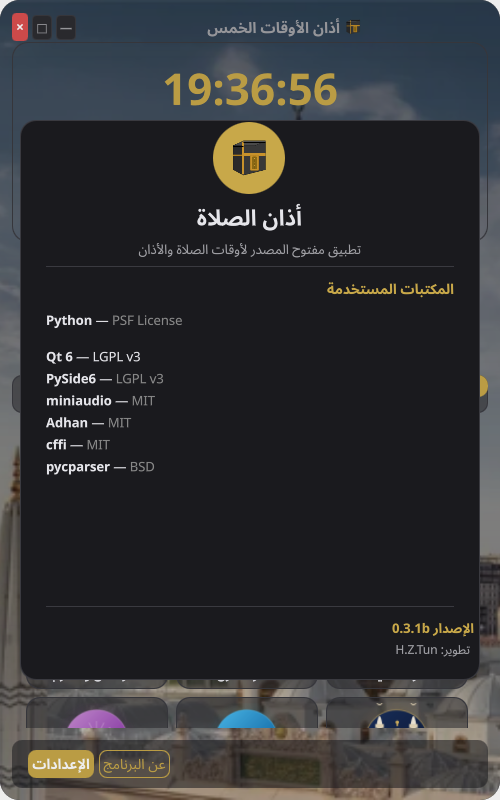
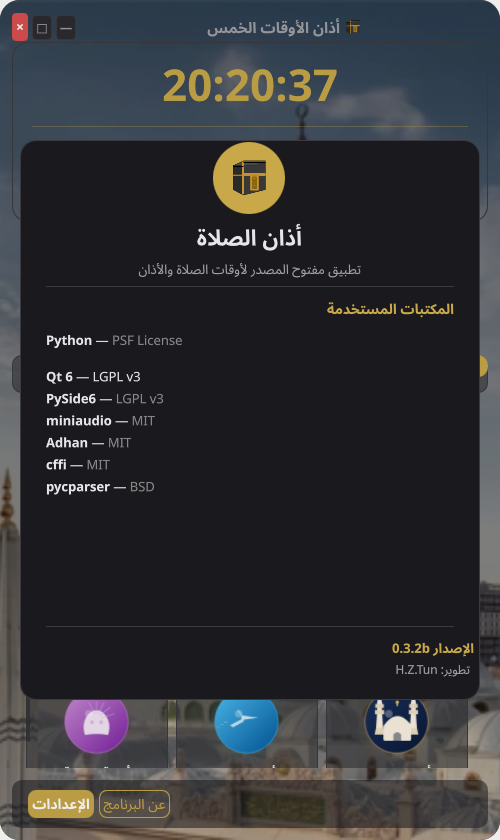
release 0.3.2b: visible rows, scrollbars, fresh screenshots

diff --git a/backend/location.py b/backend/location.py
@@ -103,7 +103,7 @@ def _try_ip_api(retries: int) -> dict | None:
     for attempt in range(retries + 1):
         try:
             req = Request(
-                "https://ip-api.com/json/", headers={"User-Agent": "AthanFiveTimes/0.3.1b"}
+                "https://ip-api.com/json/", headers={"User-Agent": "AthanFiveTimes/0.3.2b"}
             )
             with urlopen(req, timeout=10) as resp:
                 data = json.loads(resp.read().decode())
@@ -137,7 +137,7 @@ def _try_ip_api(retries: int) -> dict | None:
 def _try_fallback() -> dict | None:
     """Fallback using ipapi.co (HTTPS)."""
     try:
-        req = Request("https://ipapi.co/json/", headers={"User-Agent": "AthanFiveTimes/0.3.1b"})
+        req = Request("https://ipapi.co/json/", headers={"User-Agent": "AthanFiveTimes/0.3.2b"})
         with urlopen(req, timeout=10) as resp:
             data = json.loads(resp.read().decode())
         if data.get("error"):

diff --git a/backend/__init__.py b/backend/__init__.py
@@ -1,2 +1,2 @@
-__version__ = "0.3.1b"
+__version__ = "0.3.2b"
 __app_name__ = "أذان الأوقات الخمس"

diff --git a/README.md b/README.md
@@ -4,7 +4,7 @@
 [![Release](https://img.shields.io/github/v/release/HtoZ27/Athan-Five-Times?include_prereleases)](https://github.com/HtoZ27/Athan-Five-Times/releases)
 [![License: GPL-3.0](https://img.shields.io/badge/License-GPL--3.0-blue.svg)](LICENSE)
 
-> **Beta (0.3.1b)** — This is a beta release: not yet bug-free, not yet
+> **Beta (0.3.2b)** — This is a beta release: not yet bug-free, not yet
 > tested on all Linux environments, and translations are still unreviewed.
 > Bug reports are welcome via GitHub Issues.
 
@@ -55,13 +55,13 @@ Or install a native package (also on the releases page):
 
 ```bash
 # Debian / Ubuntu
-sudo dpkg -i athan-five-times_0.3.1b_all.deb
+sudo dpkg -i athan-five-times_0.3.2b_all.deb
 sudo apt-get install -f   # pulls python3-pyside6* if missing
 pip install adhan miniaudio
 athan-five-times
 
 # Fedora / openSUSE (from spec)
-sudo dnf install athan-five-times-0.3.1b-1.noarch.rpm
+sudo dnf install athan-five-times-0.3.2b-1.noarch.rpm
 
 # Arch Linux (from PKGBUILD)
 makepkg -si   # inside packaging/arch, or use the AUR
